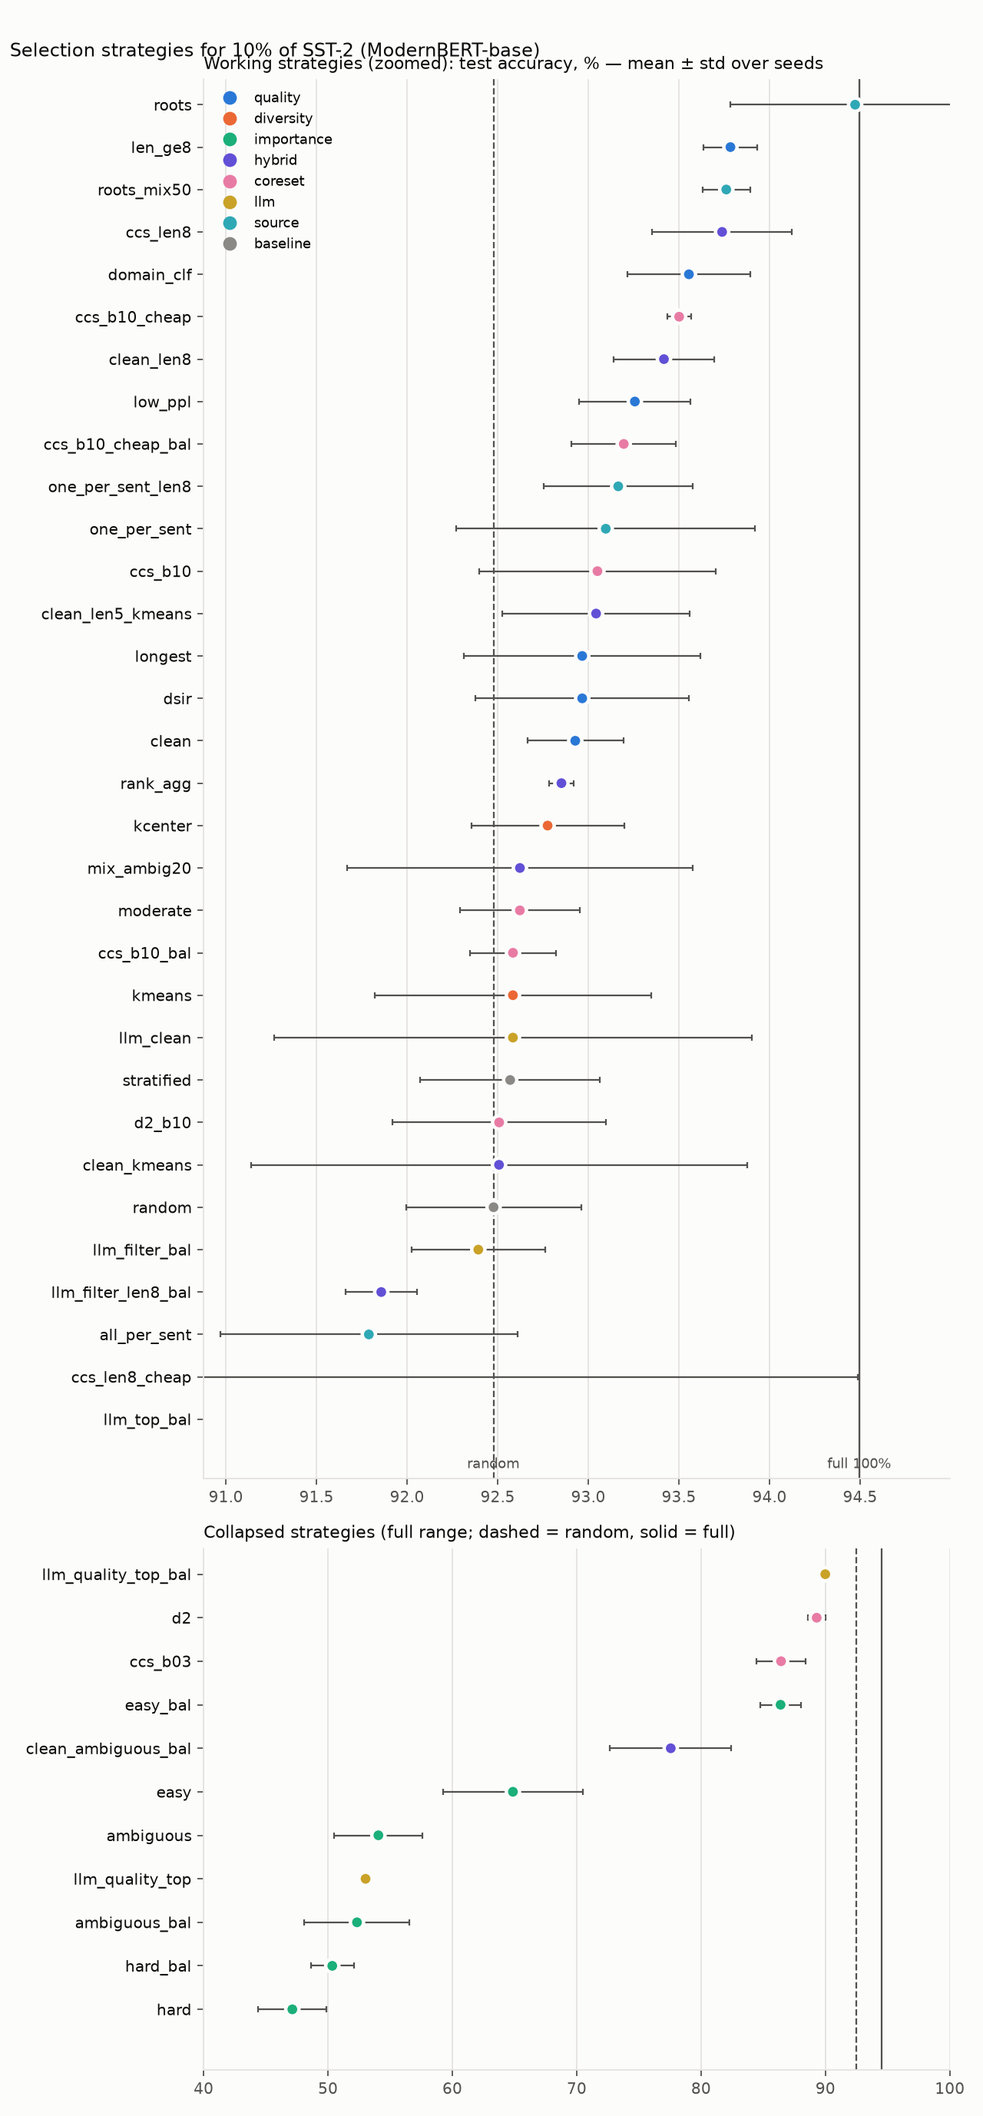
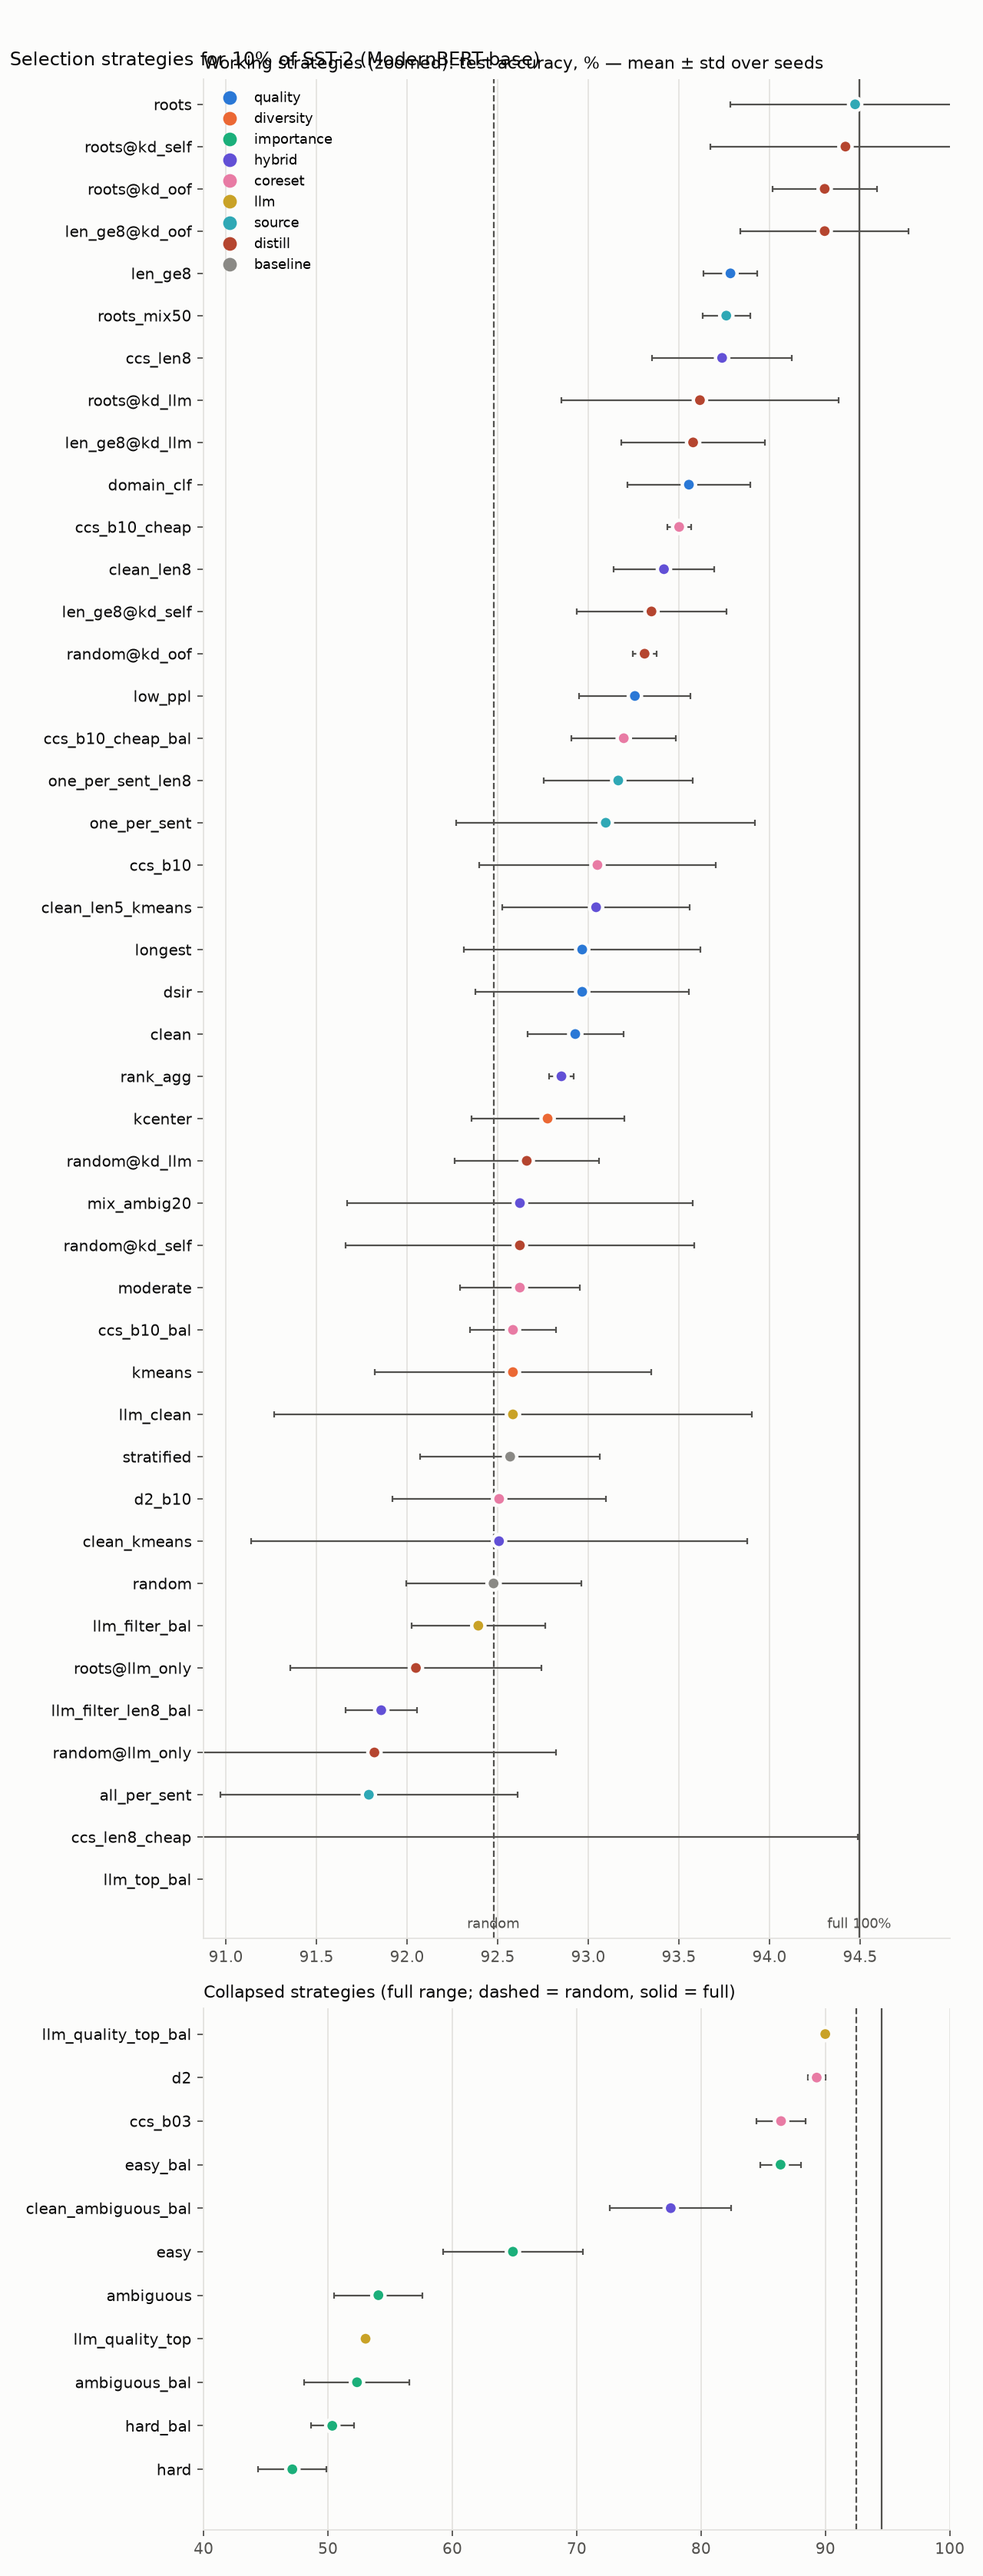
Add knowledge distillation on top of selection (round 7)

diff --git a/src/train.py b/src/train.py
@@ -4,6 +4,12 @@ Examples:
     python -m src.train --subset full --seed 0
     python -m src.train --subset random_s0 --seed 0
     python -m src.train --subset full --seed 0 --log-dynamics   # per-example training dynamics
+    python -m src.train --subset roots_s0 --seed 0 --teacher llm --tag kd_llm   # knowledge distillation
+    python -m src.train --subset roots_s0 --seed 0 --save-probs --tag teacher  # be a teacher: data/teacher_self_roots_s0.npy
+
+Distillation loss: alpha * CE(gold label) + (1 - alpha) * T^2 * KL(teacher || student) at temperature T
+(Hinton et al., 2015). Teachers are pool-level probabilities data/teacher_<name>.npy, shape (n_pool, 2);
+<name> may contain {subset}, e.g. --teacher self_{subset}.
 """
 import argparse
 import csv
@@ -27,7 +33,7 @@ from transformers import (
     set_seed,
 )
 
-from src.config import MODEL_NAME, RESULTS_CSV, RUNS_DIR, TRAIN_CFG
+from src.config import DATA_DIR, MODEL_NAME, RESULTS_CSV, RUNS_DIR, TRAIN_CFG
 from src.data import load_splits, load_subset
 
 transformers.logging.set_verbosity_error()
@@ -41,6 +47,11 @@ def parse_args():
     p.add_argument("--tag", default="", help="free-form label stored in results.csv")
     p.add_argument("--log-dynamics", action="store_true",
                    help="save per-example gold-label probs on the train subset after each epoch")
+    p.add_argument("--teacher", default="", help="distill from data/teacher_<name>.npy")
+    p.add_argument("--alpha", type=float, default=0.5, help="weight of the gold-label loss; 0 = teacher only")
+    p.add_argument("--temperature", type=float, default=2.0)
+    p.add_argument("--save-probs", action="store_true",
+                   help="save train-subset probs of the best epoch as data/teacher_self_<subset>.npy")
     for k, v in TRAIN_CFG.items():
         p.add_argument(f"--{k.replace('_', '-')}", type=type(v), default=v)
     return p.parse_args()
@@ -48,7 +59,7 @@ def parse_args():
 
 def tokenize(ds, tok, max_length):
     ds = ds.map(lambda b: tok(b["sentence"], truncation=True, max_length=max_length), batched=True)
-    keep = ["input_ids", "attention_mask", "label"]
+    keep = ["input_ids", "attention_mask", "label", "teacher_probs"]
     return ds.remove_columns([c for c in ds.column_names if c not in keep]).rename_column("label", "labels")
 
 
@@ -88,13 +99,26 @@ def make_model_and_optim(n_train, args, device):
     return model, opt, sched
 
 
-def train_epoch(model, loader, opt, sched, device, desc="train"):
+def distill_loss(logits, labels, teacher_probs, alpha, temperature):
+    logits = logits.float()
+    t_log = torch.log(teacher_probs.float().clamp_min(1e-8)) / temperature
+    kl = torch.nn.functional.kl_div(torch.log_softmax(logits / temperature, -1), torch.log_softmax(t_log, -1),
+                                    log_target=True, reduction="batchmean") * temperature ** 2
+    return alpha * torch.nn.functional.cross_entropy(logits, labels) + (1 - alpha) * kl
+
+
+def train_epoch(model, loader, opt, sched, device, desc="train", alpha=0.5, temperature=2.0):
     model.train()
     running = 0.0
     for step, batch in enumerate(tqdm(loader, desc=desc, leave=False, dynamic_ncols=True), 1):
         batch = {k: v.to(device) for k, v in batch.items()}
+        teacher = batch.pop("teacher_probs", None)
         with torch.autocast("cuda", dtype=torch.bfloat16):
-            loss = model(**batch).loss
+            if teacher is None:
+                loss = model(**batch).loss
+            else:
+                logits = model(input_ids=batch["input_ids"], attention_mask=batch["attention_mask"]).logits
+                loss = distill_loss(logits, batch["labels"], teacher, alpha, temperature)
         loss.backward()
         torch.nn.utils.clip_grad_norm_(model.parameters(), 1.0)
         opt.step()
@@ -126,6 +150,10 @@ def main():
     else:
         idx = load_subset(args.subset)
     train_raw = pool.select(idx)
+    if args.teacher:
+        teacher = np.load(DATA_DIR / f"teacher_{args.teacher.format(subset=args.subset)}.npy")[idx]
+        assert np.isfinite(teacher).all(), "teacher has no probabilities for some rows of this subset"
+        train_raw = train_raw.add_column("teacher_probs", teacher.astype(np.float32).tolist())
 
     tok = AutoTokenizer.from_pretrained(MODEL_NAME)
     collate = DataCollatorWithPadding(tok)
@@ -137,7 +165,7 @@ def main():
     train_loader = DataLoader(train_ds, batch_size=args.batch_size, shuffle=True, collate_fn=collate, generator=g)
     mk_eval = lambda d: DataLoader(d, batch_size=args.eval_batch_size, collate_fn=collate)
     val_loader, test_loader = mk_eval(val_ds), mk_eval(test_ds)
-    train_eval_loader = mk_eval(train_ds) if args.log_dynamics else None
+    train_eval_loader = mk_eval(train_ds) if args.log_dynamics or args.save_probs else None
 
     model, opt, sched = make_model_and_optim(len(train_ds), args, device)
 
@@ -145,7 +173,8 @@ def main():
     dynamics = []
     t0 = time.time()
     for epoch in range(1, args.epochs + 1):
-        train_loss = train_epoch(model, train_loader, opt, sched, device, desc=f"epoch {epoch}/{args.epochs}")
+        train_loss = train_epoch(model, train_loader, opt, sched, device, desc=f"epoch {epoch}/{args.epochs}",
+                                 alpha=args.alpha, temperature=args.temperature)
         val_m = metrics(*predict(model, val_loader, device))
         test_m = metrics(*predict(model, test_loader, device))
         print(f"epoch {epoch}: train_loss {train_loss:.4f} | "
@@ -153,6 +182,8 @@ def main():
         if val_m["acc"] > best["val_acc"]:
             best = dict(val_acc=val_m["acc"], val_f1=val_m["f1"], test_acc=test_m["acc"],
                         test_f1=test_m["f1"], best_epoch=epoch)
+            if args.save_probs:
+                best_train_probs = predict(model, train_eval_loader, device)[0].softmax(-1).numpy()
 
         if args.log_dynamics:
             logits, labels = predict(model, train_eval_loader, device)
@@ -171,11 +202,18 @@ def main():
             gold_prob=np.stack([d["gold_prob"] for d in dynamics]),
             logits=np.stack([d["logits"] for d in dynamics]),
         )
+    if args.save_probs:
+        full = np.full((len(pool), 2), np.nan, dtype=np.float32)
+        full[idx] = best_train_probs
+        np.save(DATA_DIR / f"teacher_self_{args.subset}.npy", full)
 
+    config = {k: getattr(args, k) for k in TRAIN_CFG}
+    if args.teacher:
+        config.update(teacher=args.teacher, alpha=args.alpha, temperature=args.temperature)
     row = dict(timestamp=datetime.now().isoformat(timespec="seconds"), subset=args.subset, tag=args.tag,
                seed=args.seed, n_train=len(train_ds), **{k: round(v, 5) if isinstance(v, float) else v
                                                         for k, v in best.items()},
-               train_time_s=round(elapsed, 1), config=json.dumps({k: getattr(args, k) for k in TRAIN_CFG}))
+               train_time_s=round(elapsed, 1), config=json.dumps(config))
     append_result(row)
     print(f"best (by val): {best} | {elapsed:.0f}s")
 

diff --git a/src/analysis/report.py b/src/analysis/report.py
@@ -31,12 +31,18 @@ AXIS = {
     "roots_mix50": "source",
 }
 COLORS = {"quality": "#2a78d6", "diversity": "#eb6834", "importance": "#1baf7a", "hybrid": "#6250d6", "coreset": "#e87ba4",
-          "llm": "#c9a227", "source": "#2fa8b5", "baseline": "#8a8985"}
+          "llm": "#c9a227", "source": "#2fa8b5", "distill": "#b5452f",
+          "baseline": "#8a8985"}
 INK, INK2, GRID, SURFACE = "#0b0b0b", "#52514e", "#e4e3df", "#fcfcfb"
 
 
 def strategy_of(subset):
     return re.sub(r"_s\d+$", "", subset)
+
+
+def axis_of(strategy):
+    # distillation runs are named <strategy>@<tag>, e.g. roots@kd_llm
+    return "distill" if "@" in strategy else AXIS.get(strategy, "hybrid")
 
 
 def subset_features(scores, idx, emb, test_centroid):
@@ -76,7 +82,7 @@ def style(ax):
 def _strategy_panel(ax, s, xlim, refs):
     style(ax)
     y = np.arange(len(s))
-    colors = [COLORS[AXIS.get(n, "hybrid")] for n in s.strategy]
+    colors = [COLORS[axis_of(n)] for n in s.strategy]
     # dot + error bar: bars from an arbitrary zoomed baseline would exaggerate differences
     ax.errorbar(s.test_acc_mean * 100, y, xerr=s.test_acc_std * 100, fmt="none", ecolor=INK2,
                 elinewidth=1, capsize=2, zorder=2)
@@ -123,7 +129,7 @@ def plot_correlations(per_strategy, feats):
         ax.grid(axis="y", color=GRID, linewidth=0.8)
         d = per_strategy.dropna(subset=[f])
         for _, r in d.iterrows():
-            ax.scatter(r[f], r.test_acc * 100, s=40, color=COLORS[AXIS.get(r.strategy, "hybrid")],
+            ax.scatter(r[f], r.test_acc * 100, s=40, color=COLORS[axis_of(r.strategy)],
                        edgecolor=SURFACE, linewidth=1, zorder=3)
         rho, p = spearmanr(d[f], d.test_acc)
         ax.set_title(f"{f}   ρ={rho:+.2f} (p={p:.2g})", color=INK, fontsize=9, loc="left")
@@ -164,7 +170,7 @@ def plot_val_vs_test(summary, label=("len_ge8", "ccs_len8", "ccs_b10", "ccs_b10_
     ax.grid(axis="y", color=GRID, linewidth=0.8)
     for _, r in s.iterrows():
         ax.scatter(r.val_acc_mean * 100, r.test_acc_mean * 100, s=60, zorder=3,
-                   color=COLORS[AXIS.get(r.strategy, "hybrid")], edgecolor=SURFACE, linewidth=2)
+                   color=COLORS[axis_of(r.strategy)], edgecolor=SURFACE, linewidth=2)
         if r.strategy in label:
             left = r.strategy == "ccs_len8"  # sits right next to len_ge8
             ax.annotate(r.strategy, (r.val_acc_mean * 100, r.test_acc_mean * 100),
@@ -221,7 +227,10 @@ def budget_sweep(res, full_acc):
 def main():
     FIG_DIR.mkdir(parents=True, exist_ok=True)
     res_all = pd.read_csv(RESULTS_CSV)
-    res_all["strategy"] = res_all.subset.map(strategy_of)
+    # teacher runs (src.train --save-probs) repeat existing baselines; distillation runs get "@<tag>"
+    res_all = res_all[res_all.tag.fillna("") != "teacher"].copy()
+    tag = res_all.tag.fillna("")
+    res_all["strategy"] = res_all.subset.map(strategy_of) + tag.where(tag == "", "@" + tag)
     # the main analysis is at the 10% budget; other budgets only feed the sweep figure
     res = res_all[~res_all.strategy.str.contains(r"_b\d\d$", regex=True)
                   | res_all.strategy.str.match(BETA_NAMES)].copy()
@@ -244,7 +253,7 @@ def main():
     summary["p_val_vs_random"] = summary.strategy.map(
         lambda n: ttest_ind(res[res.strategy == n].val_acc, rand_val, equal_var=False).pvalue
         if n not in ("random", "full") else np.nan)
-    summary["axis"] = summary.strategy.map(lambda n: AXIS.get(n, "hybrid"))
+    summary["axis"] = summary.strategy.map(lambda n: axis_of(n))
     summary = summary.sort_values("test_acc_mean", ascending=False)
     summary.to_csv(RESULTS_DIR / "summary.csv", index=False)
     print(summary.round(4).to_string(index=False))
@@ -261,7 +270,8 @@ def main():
         idx = np.load(SUBSETS_DIR / f"{subset}.npy")
         rows.append(dict(subset=subset, **subset_features(scores, idx, emb, test_centroid)))
     feats_df = pd.DataFrame(rows)
-    per_run = res.merge(feats_df, on="subset")
+    # subset characteristics describe the selection, so distillation runs (same subsets, other loss) are left out
+    per_run = res[res.tag.fillna("") == ""].merge(feats_df, on="subset")
     feats = [c for c in feats_df.columns if c != "subset"]
     per_strategy = per_run.groupby("strategy")[feats + ["test_acc"]].mean().reset_index()
     per_strategy.to_csv(RESULTS_DIR / "subset_features.csv", index=False)

diff --git a/scripts/run_experiments.py b/scripts/run_experiments.py
@@ -1,6 +1,7 @@
 """Train on <strategy>_s<seed> subsets one by one, skipping runs already in results.csv.
 
     python scripts/run_experiments.py --strategies longest kcenter --seeds 0 1 2
+    python scripts/run_experiments.py --strategies roots --tag kd_llm -- --teacher llm   # extra args for src.train
 """
 import argparse
 import subprocess
@@ -18,21 +19,25 @@ def main():
     p = argparse.ArgumentParser()
     p.add_argument("--strategies", nargs="+", required=True)
     p.add_argument("--seeds", type=int, nargs="+", default=[0, 1, 2])
+    p.add_argument("--tag", default="", help="run label; a (subset, seed, tag) triple is trained once")
+    p.add_argument("train_args", nargs="*", help="passed to src.train after '--'")
     args = p.parse_args()
 
     done = set()
     if RESULTS_CSV.exists():
         df = pd.read_csv(RESULTS_CSV)
-        done = set(zip(df.subset, df.seed))
+        done = set(zip(df.subset, df.seed, df.tag.fillna("")))
 
     jobs = [(f"{strat}_s{s}", s) for strat in args.strategies for s in args.seeds]
     for i, (subset, s) in enumerate(jobs, 1):
-        if (subset, s) in done:
-            print(f"[{i}/{len(jobs)}] skip {subset} (already in results.csv)", flush=True)
+        if (subset, s, args.tag) in done:
+            print(f"[{i}/{len(jobs)}] skip {subset} {args.tag} (already in results.csv)", flush=True)
             continue
-        print(f"\n[{i}/{len(jobs)}] === {subset} ===", flush=True)
+        print(f"\n[{i}/{len(jobs)}] === {subset} {args.tag} ===", flush=True)
         # child inherits the terminal, so epoch lines and the progress bar are shown live
-        r = subprocess.run([sys.executable, "-m", "src.train", "--subset", subset, "--seed", str(s)], cwd=ROOT)
+        cmd = [sys.executable, "-m", "src.train", "--subset", subset, "--seed", str(s), "--tag", args.tag,
+               *args.train_args]
+        r = subprocess.run(cmd, cwd=ROOT)
         if r.returncode != 0:
             print(f"FAILED {subset} (exit code {r.returncode})", flush=True)
 

diff --git a/src/analysis/teachers.py b/src/analysis/teachers.py
@@ -1,0 +1,33 @@
+"""Pool-level teacher probabilities for knowledge distillation (src/train.py --teacher <name>).
+
+    python -m src.analysis.teachers
+Outputs data/teacher_<name>.npy, shape (n_pool, 2), columns P(negative), P(positive):
+  llm  Qwen2.5-3B zero-shot (src/analysis/llm_scores.py), renormalised over positive / negative.
+       Uses no labels, so it fits the 10% labeling budget.
+  oof  ModernBERT out-of-fold predictions (src/analysis/cv_predict.py): each example is scored by a model trained
+       on the other 2/3 of the pool. Sees ~20x more labels than the budget allows: a reference upper bound.
+Self-distillation teachers (teacher_self_<subset>.npy) are written by src/train.py --save-probs.
+"""
+import numpy as np
+
+from src.config import DATA_DIR
+from src.data import load_splits
+
+
+def main():
+    labels = np.asarray(load_splits()["pool"]["label"])
+    neg, pos, _ = np.exp(np.load(DATA_DIR / "llm_sentiment.npy")).T
+    teachers = dict(
+        llm=np.stack([neg, pos], 1) / (neg + pos)[:, None],
+        oof=np.load(DATA_DIR / "oof_probs.npy"),
+    )
+    for name, probs in teachers.items():
+        probs = probs.astype(np.float32)
+        np.save(DATA_DIR / f"teacher_{name}.npy", probs)
+        conf = probs.max(1)
+        print(f"{name}: accuracy vs gold {(probs.argmax(1) == labels).mean():.4f} | "
+              f"mean confidence {conf.mean():.3f} | share with confidence < 0.9: {(conf < 0.9).mean():.3f}")
+
+
+if __name__ == "__main__":
+    main()
